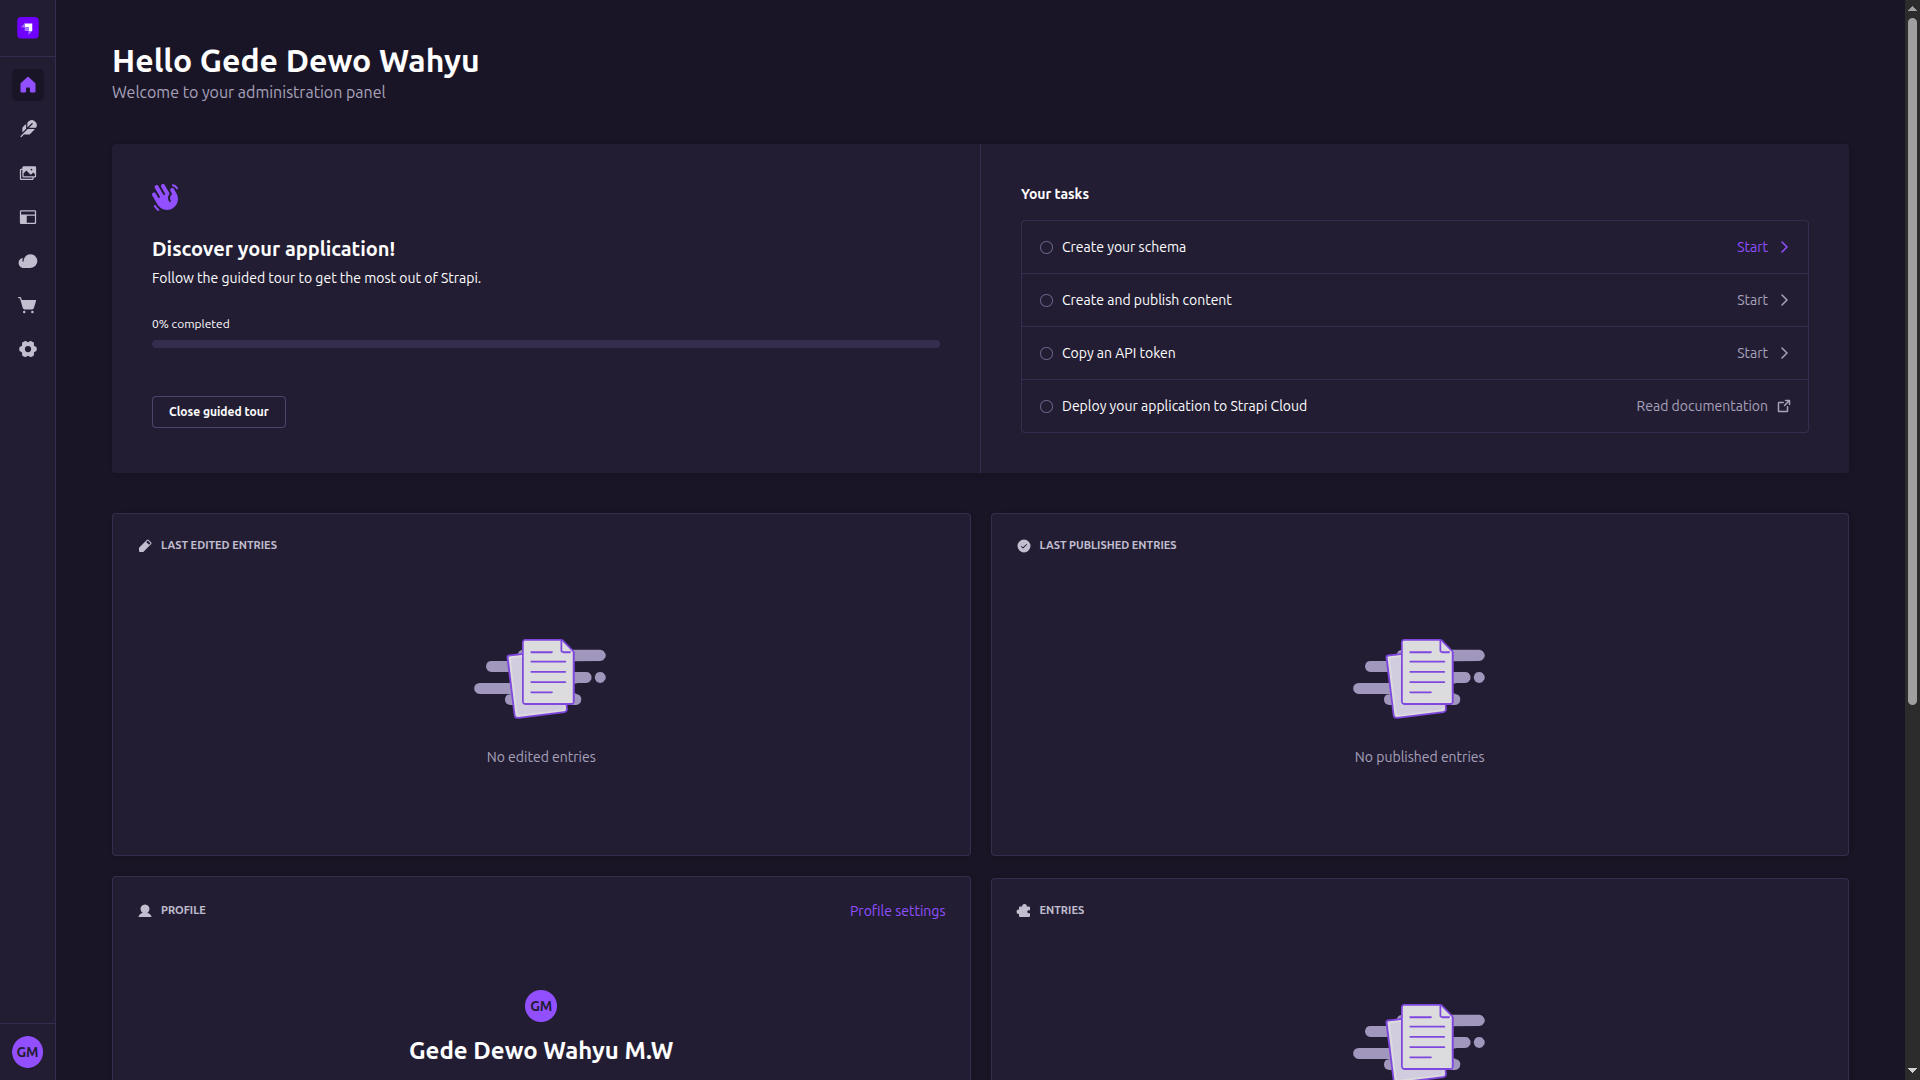
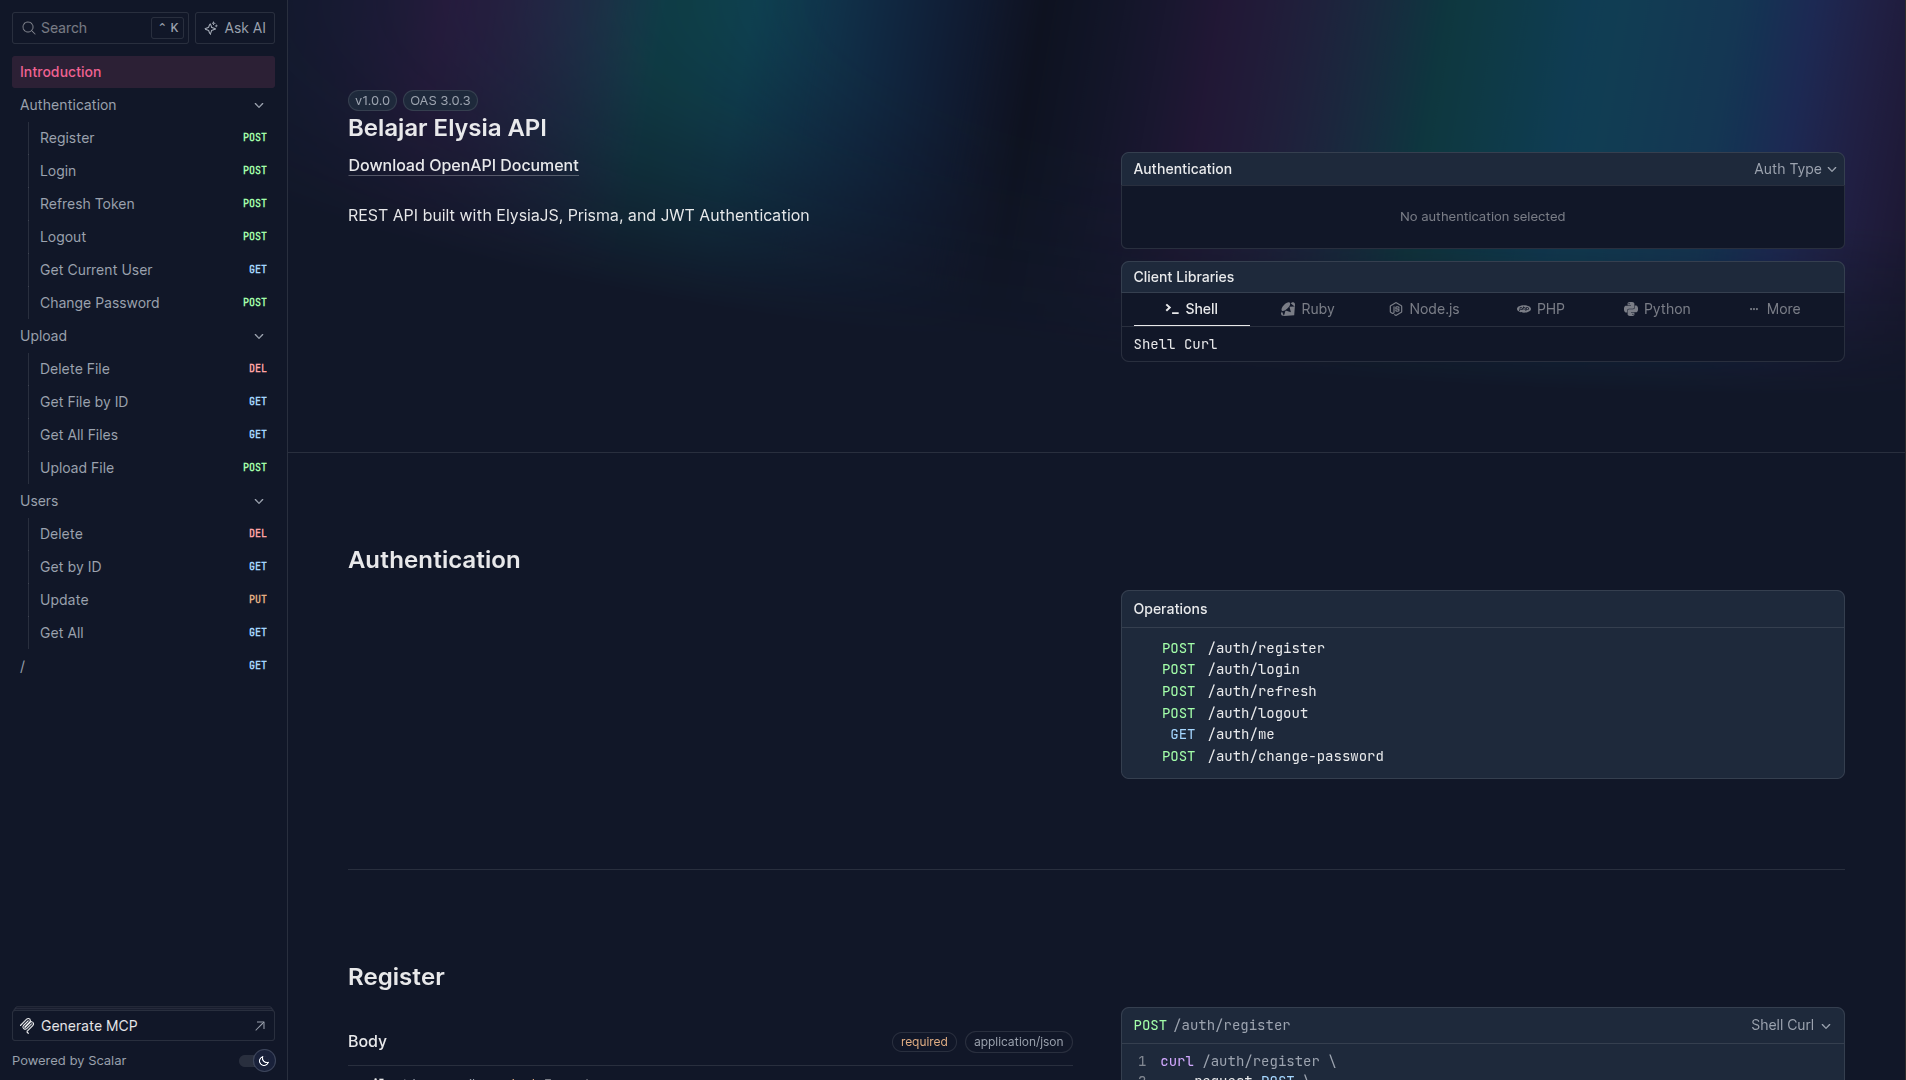
docs: 📝 readme

diff --git a/README.md b/README.md
@@ -1,9 +1,9 @@
 ![Next.js - Home](public/project/1.png)
 ![Next.js - Login](public/project/2.png)
 ![Next.js - Register](public/project/3.png)
-![ElysiaJS - Swagger](public/project/4.png)
-![ElysiaJS - Swagger Auth](public/project/5.png)
-![ElysiaJS - Swagger Test](public/project/6.png)
+![ElysiaJS - Home](public/project/4.png)
+![ElysiaJS - Register](public/project/5.png)
+![ElysiaJS - Response](public/project/6.png)
 
 # Turborepo + Next.js + ElysiaJS Boilerplate
 
